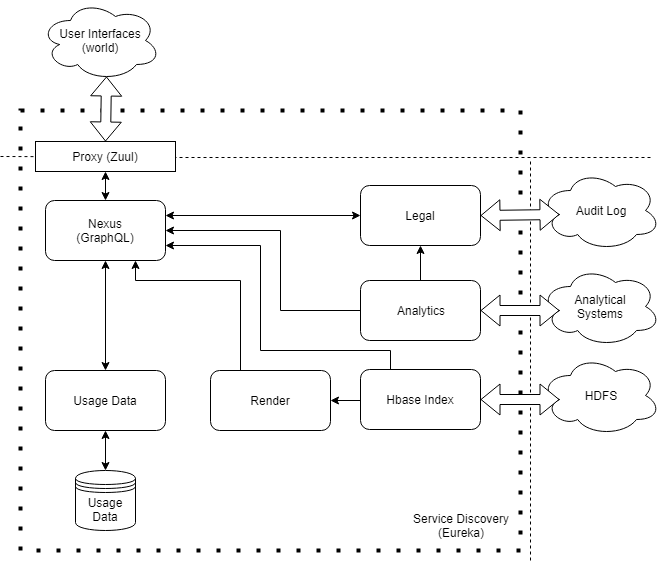
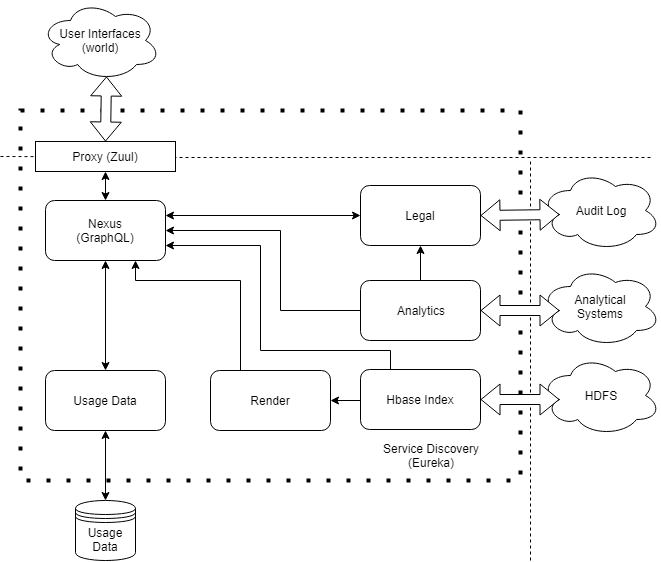
Minor tweaks to diagram and text

diff --git a/README.md b/README.md
@@ -15,6 +15,7 @@ The **boxes** are the individual parts of the system, with a *hard* box for the 
 The **database icon** exemplify the usage data storage. This is implemented using MySql with InnoDB.
 The **clouds** exemplify related systems outside the infrastructure. None of these exist in the repository.
 The **arrows** represent the flow of data in the system. Queries are not considered data here. 
+The **thick border** represents the services that register themselves with the discovery service. These can all be scaled up and down as required, though external limitations may apply. 
 
 # Quickstart
 ### To just see the infrastructure (Tested in Chrome and Firefox)
